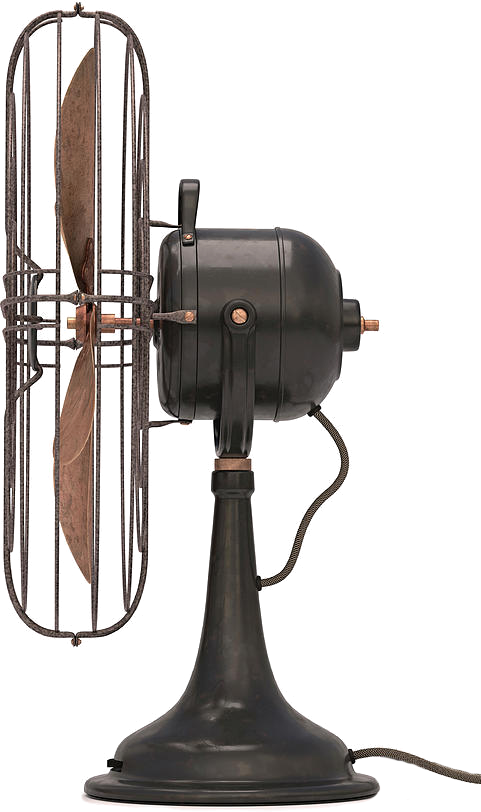
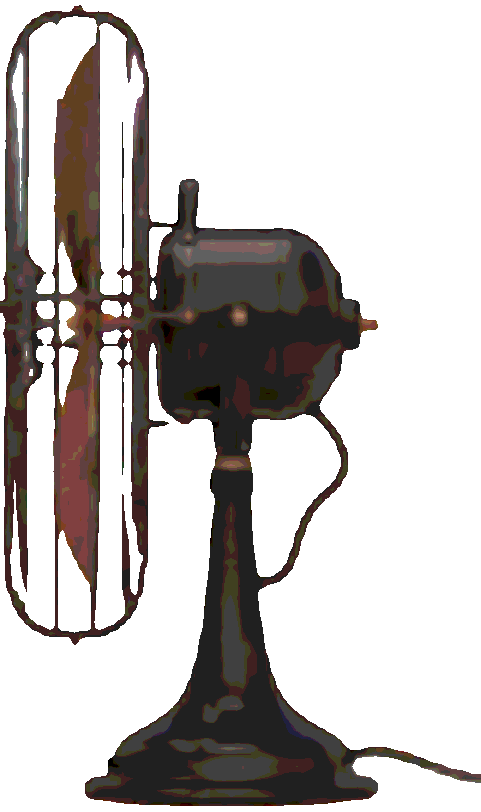
refactor: standardize responsive breakpoints and update layout grid configurations accordingly

Changed region(s): [[0.0, 0.0, 1.0, 1.0]]

diff --git a/responsive.config.js b/responsive.config.js
@@ -1,0 +1,13 @@
+const BREAKPOINTS = Object.freeze({
+  tablet: 768,
+  desktop: 1024,
+})
+
+const screens = Object.fromEntries(
+  Object.entries(BREAKPOINTS).map(([name, width]) => [name, `${width}px`])
+)
+
+module.exports = {
+  BREAKPOINTS,
+  screens,
+}

diff --git a/app/articles/_components/jquery-article-experience.module.css b/app/articles/_components/jquery-article-experience.module.css
@@ -367,13 +367,13 @@
   line-height: 1.75;
 }
 
-@media (max-width: 960px) {
+@media (max-width: 1024px) {
   .body {
     grid-template-columns: 1fr;
   }
 }
 
-@media (max-width: 640px) {
+@media (max-width: 768px) {
   .header,
   .body {
     padding: 1rem;

diff --git a/app/articles/_components/nextjs-rendering-inline.module.css b/app/articles/_components/nextjs-rendering-inline.module.css
@@ -378,7 +378,7 @@
   color: var(--text-muted);
 }
 
-@media (max-width: 960px) {
+@media (max-width: 1024px) {
   .overviewLayout,
   .scenarioGrid,
   .dualPanel,
@@ -391,7 +391,7 @@
   }
 }
 
-@media (max-width: 640px) {
+@media (max-width: 768px) {
   .panelHeader,
   .inlineHeader,
   .tabRow,

diff --git a/test-img.js b/test-img.js
@@ -1,0 +1,3 @@
+import fs from 'fs';
+const buffer = fs.readFileSync('public/images/fan.png');
+console.log('File size:', buffer.length);

diff --git a/app/BlogSummary.tsx b/app/BlogSummary.tsx
@@ -11,7 +11,7 @@ const BlogSummary = ({ total }: Props) => {
   const t = useTranslations("home")
 
   return (
-    <div className="grid grid-cols-1 gap-4 sm:grid-cols-[repeat(auto-fit,minmax(min(100%,10rem),1fr))]">
+    <div className="grid grid-cols-3 gap-4">
       <RetroStatCard
         className="w-full min-w-0"
         label={t("webDev")}

diff --git a/app/PostSummary.tsx b/app/PostSummary.tsx
@@ -9,7 +9,7 @@ interface Props {
 
 const PostSummary = ({ total }: Props) => {
   return (
-    <div className="mt-4 grid gap-5 md:mt-8 min-[1180px]:grid-cols-[minmax(0,0.92fr)_minmax(0,1.08fr)]">
+    <div className="mt-4 grid gap-5 md:mt-8 lg:grid-cols-[minmax(0,0.92fr)_minmax(0,1.08fr)]">
       <div className="grid min-w-0 gap-5">
         <BlogSummary total={total} />
         <BlogChart open={total} inProgress={0} closed={0} />